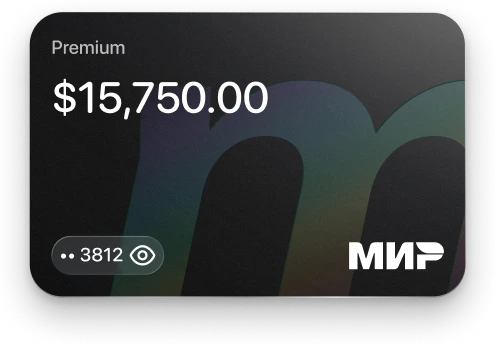
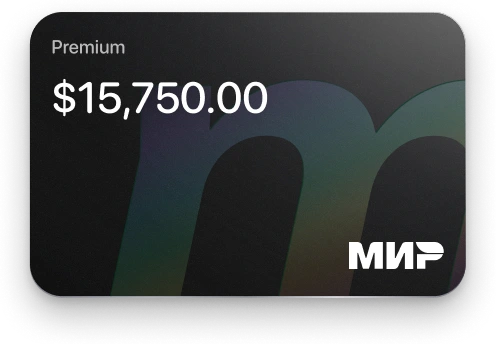
Synchronize card transitions and restore linked account

diff --git a/components/sections/cases/MoodFlow.tsx b/components/sections/cases/MoodFlow.tsx
@@ -6,11 +6,12 @@ import { motion, useMotionValue, useMotionValueEvent, useReducedMotion, useTrans
 import { AuthMotionPreview } from "@/components/motion/AuthMotionPreview";
 import { asset } from "@/lib/asset";
 import { E, sample, track, useTimeline } from "@/lib/motion/timeline";
-import { FlipCard } from "./FlipCard";
+import { FlipCard, NumberChip } from "./FlipCard";
 
 const WIDTH = 350;
 const HEIGHT = 436;
 const CARD_WIDTH = 217.871;
+const CARD_SCALE = CARD_WIDTH / 322;
 const DURATION = 26;
 const STOPS = [0, 0.08, 0.17, 0.25, 0.34, 0.43, 0.53, 0.68, 0.79, 0.89, 1];
 
@@ -25,14 +26,30 @@ function DesignArtwork({ name, className, width, height, alt = "" }: { name: str
   return <Image src={asset(`motion/mood/${name}.webp`)} className={className} alt={alt} width={width} height={height} draggable={false} />;
 }
 
-function ScreenHeader({ premium, sticky, frozen }: { premium: boolean; sticky: MotionValue<number>; frozen: boolean }) {
+function ScreenHeader({ premium, sticky, frost, scroll, actionOpacity }: {
+  premium: MotionValue<number>;
+  sticky: MotionValue<number>;
+  frost: MotionValue<number>;
+  scroll: MotionValue<number>;
+  actionOpacity: MotionValue<number>;
+}) {
   const dotsOpacity = useTransform(sticky, (value) => 1 - value);
+  const activeDotX = useTransform(premium, [0, 1], [0, 6]);
+  const premiumDotOpacity = useTransform(premium, [0, 1], [1, 0]);
+  const activeMiniOpacity = useTransform(frost, [0, 1], [1, 0]);
   return (
     <>
-      <motion.div aria-hidden className="pointer-events-none absolute inset-x-0 top-0 h-[82.55px]"
-        style={{ opacity: sticky, backdropFilter: "blur(7px)", maskImage: "linear-gradient(#000 25%, #000b 65%, transparent)" }} />
-      <motion.div aria-hidden className="pointer-events-none absolute inset-x-0 top-0 h-[82.55px]"
-        style={{ opacity: sticky, backdropFilter: "blur(19px)", maskImage: "linear-gradient(#000, #0009 32%, transparent 75%)" }} />
+      {/* Render the layers that pass under the glass with the same scroll position.
+          This keeps the blur live inside the clipped phone in Chromium and WebKit. */}
+      <motion.div aria-hidden className="pointer-events-none absolute inset-x-0 top-0 h-[82.55px] overflow-hidden bg-[#f7f7f7]"
+        style={{ opacity: sticky, maskImage: "linear-gradient(#000 34%, #000e 63%, #0009 80%, transparent)" }}>
+        <div className="absolute inset-0 blur-[8px]">
+          <motion.div className="absolute inset-0" style={{ y: scroll }}>
+            <CardActions opacity={actionOpacity} />
+            <LinkedAccount />
+          </motion.div>
+        </div>
+      </motion.div>
       <motion.div aria-hidden className="pointer-events-none absolute inset-x-0 top-0 h-[82.55px]"
         style={{ opacity: sticky, background: "linear-gradient(to bottom, rgb(255 255 255 / 96%), rgb(255 255 255 / 92%) 62.79%, rgb(255 255 255 / 72%) 74.42%, rgb(255 255 255 / 38%) 84.88%, rgb(255 255 255 / 12%) 93.02%, transparent)" }} />
       {/* Scale the existing status-bar canvas as a single unit. */}
@@ -41,13 +58,21 @@ function ScreenHeader({ premium, sticky, frozen }: { premium: boolean; sticky: M
         <img src={asset("motion/auth/status-bar.svg")} width={310} height={48} alt="" draggable={false} />
       </div>
       <DesignArtwork name="sticky-back" width={30} height={30} className="absolute top-[47.36px] left-[10.83px]" />
-      <motion.div aria-hidden className="absolute top-[61px] left-1/2 flex -translate-x-1/2 items-center gap-[3px]" style={{ opacity: dotsOpacity }}>
-        <span className={premium ? "size-[3px] rounded-full bg-black/25" : "h-[3px] w-[16px] rounded-full bg-[#131313]"} />
-        <span className={premium ? "h-[3px] w-[16px] rounded-full bg-[#131313]" : "size-[3px] rounded-full bg-black/25"} />
-        <span className="size-[3px] rounded-full bg-black/25" />
+      <motion.div aria-hidden className="absolute top-[61px] left-1/2 h-[3px] w-[28px] -translate-x-1/2" style={{ opacity: dotsOpacity }}>
+        <motion.span className="absolute left-0 size-[3px] rounded-full bg-black/25" style={{ opacity: premium }} />
+        <motion.span className="absolute left-[19px] size-[3px] rounded-full bg-black/25" style={{ opacity: premiumDotOpacity }} />
+        <span className="absolute right-0 size-[3px] rounded-full bg-black/25" />
+        <motion.span className="absolute left-0 h-full w-[16px] rounded-full bg-[#131313]" style={{ x: activeDotX }} />
       </motion.div>
       <motion.div aria-hidden className="pointer-events-none absolute inset-x-0 top-[41.95px] h-[40.6px]" style={{ opacity: sticky }}>
-        <DesignArtwork name={frozen ? "card-mini" : "card-mini-active"} width={36} height={25} className="absolute top-[8px] left-1/2 -translate-x-1/2" />
+        <div className="absolute top-[8px] left-1/2 h-[25px] w-[36px] -translate-x-1/2">
+          <motion.div className="absolute inset-0" style={{ opacity: activeMiniOpacity }}>
+            <DesignArtwork name="card-mini-active" width={36} height={25} />
+          </motion.div>
+          <motion.div className="absolute inset-0" style={{ opacity: frost }}>
+            <DesignArtwork name="card-mini" width={36} height={25} />
+          </motion.div>
+        </div>
         <div className="absolute top-[7.8px] right-[13.5px] whitespace-nowrap text-right text-[10.83px] leading-[13.53px] font-medium">
           <p>$15,400.50</p>
           <p className="text-[8.12px] leading-[10.83px] font-normal text-[#707070]">Debit •• 3688</p>
@@ -59,7 +84,14 @@ function ScreenHeader({ premium, sticky, frozen }: { premium: boolean; sticky: M
 
 function PremiumCard() {
   return (
-    <DesignArtwork name="premium" width={248} height={172} className="pointer-events-none absolute top-[124px] left-[249.55px] max-w-none" />
+    <div aria-hidden className="pointer-events-none absolute top-[130px] left-[264.555px] text-white">
+      <DesignArtwork name="premium" width={248} height={172} className="absolute top-[-6px] left-[-15px] max-w-none" />
+      <div className="relative h-[210px] w-[322px] origin-top-left" style={{ transform: `scale(${CARD_SCALE})` }}>
+        <div className="absolute bottom-[16px] left-[16px]">
+          <NumberChip compact digits="3812" />
+        </div>
+      </div>
+    </div>
   );
 }
 
@@ -69,19 +101,22 @@ const actions = [
   { label: "Pay", icon: "pay", fill: "bg-white" },
 ];
 
-function CardActions({ disabled }: { disabled: boolean }) {
+function CardActions({ opacity }: { opacity: MotionValue<number> }) {
   return (
-    <div aria-hidden className="absolute inset-x-[24px] top-[307px] flex" style={{ opacity: disabled ? 0.33 : 1 }}>
+    <motion.div aria-hidden className="absolute inset-x-[24px] top-[307px] flex" style={{ opacity }}>
       {actions.map(({ label, icon, fill }) => (
         <div key={icon} className="flex flex-1 flex-col items-center gap-[8px] text-[9.5px] leading-[13.5px]">
           <span className={`grid size-[38px] place-items-center rounded-full ${fill}`}><Artwork name={icon} /></span>
           <span>{label}</span>
         </div>
       ))}
-    </div>
+    </motion.div>
   );
 }
 
+function LinkedAccount() {
+  return <DesignArtwork name="linked-account" width={272} height={82} alt="Pay from •• 5690, $2,400.00" className="absolute inset-x-0 top-[391.55px]" />;
+}
 
 const accounts = [
   { name: "Debit", number: "3688", amount: "$15,400.50", artwork: "cases/card/surface.svg" },
@@ -130,7 +165,9 @@ const settings = [
   { label: "Terms & fees", icon: "fees" },
 ];
 
-function CardSettings({ frozen }: { frozen: boolean }) {
+function CardSettings({ frozen, frost }: { frozen: boolean; frost: MotionValue<number> }) {
+  const switchColor = useTransform(frost, [0, 1], ["#e3e3e3", "#11ca5f"]);
+  const thumbX = useTransform(frost, [0, 1], [0, 10]);
   return (
     <div className="absolute inset-x-0 top-[438.24px] min-h-[355px] rounded-t-[21px] bg-white px-[11px] pt-[14px]">
       <p className="text-[13px] font-medium">Card settings</p>
@@ -139,9 +176,9 @@ function CardSettings({ frozen }: { frozen: boolean }) {
           <DesignArtwork name={`setting-${icon}`} width={30} height={30} className="shrink-0" />
           <span className="flex-1">{label}{detail && <span className="block text-[9px] text-black/55">{i === 0 && frozen ? "On" : detail}</span>}</span>
           {i === 0 ? (
-            <span data-freeze-switch={frozen ? "on" : "off"} className="relative h-[19px] w-[36px] rounded-full transition-colors duration-150" style={{ background: frozen ? "#11ca5f" : "#e3e3e3" }}>
-              <span className="absolute top-[1px] left-[1px] h-[17px] w-[24px] rounded-full bg-white transition-transform duration-150" style={{ transform: frozen ? "translateX(10px)" : undefined }} />
-            </span>
+            <motion.span data-freeze-switch={frozen ? "on" : "off"} className="relative h-[19px] w-[36px] rounded-full" style={{ backgroundColor: switchColor }}>
+              <motion.span className="absolute top-[1px] left-[1px] h-[17px] w-[24px] rounded-full bg-white" style={{ x: thumbX }} />
+            </motion.span>
           ) : <DesignArtwork name="setting-chevron" width={16} height={16} />}
         </div>
       ))}
@@ -153,6 +190,8 @@ const screenLift = track([0, 9.3, 10.03, 10.55, 11.03, DURATION], [0, 0, -234, -
 const homeSlide = track([0, 11.7, 12.6, 13.5, DURATION], [0, 0, -85, 0, 0], [E, "easeInOut", "easeInOut", E]);
 const detailScroll = track([0, 19.65, 20.52, 21.65, 22.5, DURATION], [0, 0, -366.76, -366.76, 0, 0], [E, "easeInOut", E, "easeInOut", E]);
 const cardSlide = track([0, 23.02, 23.78, DURATION], [0, 0, -237.49, -237.49], [E, "easeInOut", E]);
+const activatePremium = track([0, 23.44, 23.66, DURATION], [0, 0, 1, 1], "easeInOut");
+const freezeCard = track([0, 21.23, 21.45, DURATION], [0, 0, 1, 1], "easeInOut");
 const contract = track([0, 13.63, 13.76, 13.92, DURATION], [1, 1, 0.97, 1, 1], [E, E, E, E]);
 
 const getNumber = (value: ReturnType<typeof track>, time: number) => Number(sample(value, time));
@@ -160,13 +199,13 @@ const crossfade = (time: number, from: number, to: number) => Math.min(1, Math.m
 
 function PlaybackScrubber({ time, onSeek }: { time: MotionValue<number>; onSeek: (value: number) => void }) {
   const [position, setPosition] = useState(0);
-  useMotionValueEvent(time, "change", (seconds) => setPosition(Math.round(seconds * 10) / 10));
+  useMotionValueEvent(time, "change", (seconds) => setPosition(Math.round(seconds * 50) / 50));
   const formatTime = (value: number) => `0:${String(Math.floor(value)).padStart(2, "0")}`;
   return (
     <label className="flex items-center gap-3">
-      <input type="range" min={0} max={DURATION} step={0.1} value={position}
+      <input type="range" min={0} max={DURATION} step={0.02} value={position}
         onChange={(event) => onSeek(event.currentTarget.valueAsNumber)} aria-label="Время анимации"
-        aria-valuetext={`${position.toFixed(1)} с из ${DURATION} с`} className="h-8 min-w-0 flex-1 cursor-pointer accent-[#131313]" />
+        aria-valuetext={`${position.toFixed(2)} с из ${DURATION} с`} className="h-8 min-w-0 flex-1 cursor-pointer accent-[#131313]" />
       <span className="text-xs text-fg-secondary tabular-nums">{formatTime(position)} / {formatTime(DURATION)}</span>
     </label>
   );
@@ -193,6 +232,9 @@ export function MoodFlow({ label, lab = false, english = false }: { label: strin
   const homeScale = useTransform(time, (s) => getNumber(contract, s));
   const contentY = useTransform(time, (s) => getNumber(detailScroll, s));
   const carouselX = useTransform(time, (s) => getNumber(cardSlide, s));
+  const premium = useTransform(time, (s) => getNumber(activatePremium, s));
+  const frost = useTransform(time, (s) => getNumber(freezeCard, s));
+  const actionOpacity = useTransform(() => 1 - 0.67 * frost.get() * (1 - premium.get()));
   const stickyOpacity = useTransform(contentY, [-366.76, -285, -250], [1, 1, 0]);
   const progress = useTransform(time, [14.03, 19.65], [0, 1]);
   const lightX = useTransform(progress, STOPS, [0.5, 0.12, 0.22, 0.86, 0.9, 0.37, 0.5, 0.5, 0.65, 0.4, 0.5]);
@@ -281,23 +323,24 @@ export function MoodFlow({ label, lab = false, english = false }: { label: strin
                 <motion.div className="absolute inset-0" style={{ x: reduce ? 0 : carouselX }}>
                   <PremiumCard />
                   <div className="absolute top-[130px] left-[27.065px] h-[142.09px] w-[217.871px]" inert={!reduce && (scene === 4 || scene === 6)} onClickCapture={takeOverCard} onKeyDownCapture={(event) => { if (event.key === "Enter" || event.key === " ") takeOverCard(); }}>
-                    <FlipCard label="Debit" flipLabel="Show or hide card details" previewScale={CARD_WIDTH / 322} scene={{ x: lightX, y: lightY, strength, angle, maxTilt: 13 }}
-                      frontArtwork={frozen && (
-                        <div aria-hidden className="pointer-events-none absolute inset-0">
+                    <FlipCard label="Debit" flipLabel="Show or hide card details" previewScale={CARD_SCALE} scene={{ x: lightX, y: lightY, strength, angle, maxTilt: 13 }}
+                      frontArtwork={
+                        <motion.div aria-hidden className="pointer-events-none absolute inset-0" style={{ opacity: frost }}>
                           <div className="absolute inset-0 bg-[#808080]/18 mix-blend-saturation" />
                           <DesignArtwork name="frost" width={322} height={210} className="absolute inset-0" />
                           <DesignArtwork name="frostBadge" width={56} height={56} className="absolute top-2 right-2" />
-                        </div>
-                      )}
+                        </motion.div>
+                      }
                     />
                   </div>
                   <motion.span aria-hidden className="pointer-events-none absolute top-[243px] left-[58px] size-[23px] rounded-full border border-white bg-white/70" style={{ opacity: tapOpacity, scale: tapScale }} />
                   <div aria-hidden className="absolute top-[130px] left-[502px] h-[142px] w-[218px] rounded-[16px] bg-[#8e857c]" />
                 </motion.div>
-                <CardActions disabled={frozen && scene !== 6} />
-                <CardSettings frozen={frozen} />
+                <CardActions opacity={actionOpacity} />
+                <LinkedAccount />
+                <CardSettings frozen={frozen} frost={frost} />
               </motion.div>
-              <ScreenHeader premium={scene === 6} sticky={stickyOpacity} frozen={frozen} />
+              <ScreenHeader premium={premium} sticky={stickyOpacity} frost={frost} scroll={contentY} actionOpacity={actionOpacity} />
             </motion.div>
             {scene === 2 && <div aria-hidden className="pointer-events-none absolute top-0 left-0 w-[310px] origin-top-left scale-[0.877419]"><Image src={asset("motion/auth/status-bar.svg")} width={310} height={48} alt="" /></div>}
           </motion.div>

diff --git a/components/sections/cases/FlipCard.tsx b/components/sections/cases/FlipCard.tsx
@@ -49,7 +49,7 @@ const Edge = () => (
   </div>
 );
 
-function NumberChip({ open, compact }: { open: boolean; compact?: boolean }) {
+export function NumberChip({ open, compact, digits = "3688" }: { open?: boolean; compact?: boolean; digits?: string }) {
   return (
     <span
       className={compact
@@ -61,7 +61,7 @@ function NumberChip({ open, compact }: { open: boolean; compact?: boolean }) {
       }}
     >
       <span className="text-[14px] font-medium leading-[20px] tracking-[0.14px] whitespace-nowrap tabular-nums" style={compact ? undefined : { textShadow }}>
-        •• 3688
+        •• {digits}
       </span>
       <Svg name={open ? "eye-slash" : "eye"} className={compact ? "size-[16px] shrink-0" : "size-[20px]"} />
     </span>
@@ -195,7 +195,7 @@ export function FlipCard({ label, flipLabel, previewScale, scene, frontArtwork }
 
   // Flip: the angle keeps growing by 180°, so the card always turns the same way.
   const localAngle = useMotionValue(0);
-  const manualTarget = useRef(0);
+  const manualTurn = useRef({ from: 0, to: 180 });
   const angle = scene?.angle ?? localAngle;
   useMotionValueEvent(angle, "change", (value) => {
     if (scene && !angle.isAnimating()) setFlipped(Math.round(value / 180) % 2 === 1);
@@ -211,9 +211,10 @@ export function FlipCard({ label, flipLabel, previewScale, scene, frontArtwork }
 
   const flip = () => {
     if (scene && !reduce) {
-      const base = angle.isAnimating() ? manualTarget.current : Math.round(angle.get() / 180) * 180;
-      const target = base + 180;
-      manualTarget.current = target;
+      const previous = manualTurn.current;
+      const from = angle.isAnimating() ? previous.to : Math.round(angle.get() / 180) * 180;
+      const target = angle.isAnimating() ? previous.from : from + 180;
+      manualTurn.current = { from, to: target };
       setFlipped(target % 360 === 180);
       animate(angle, target, FLIP);
       return;
